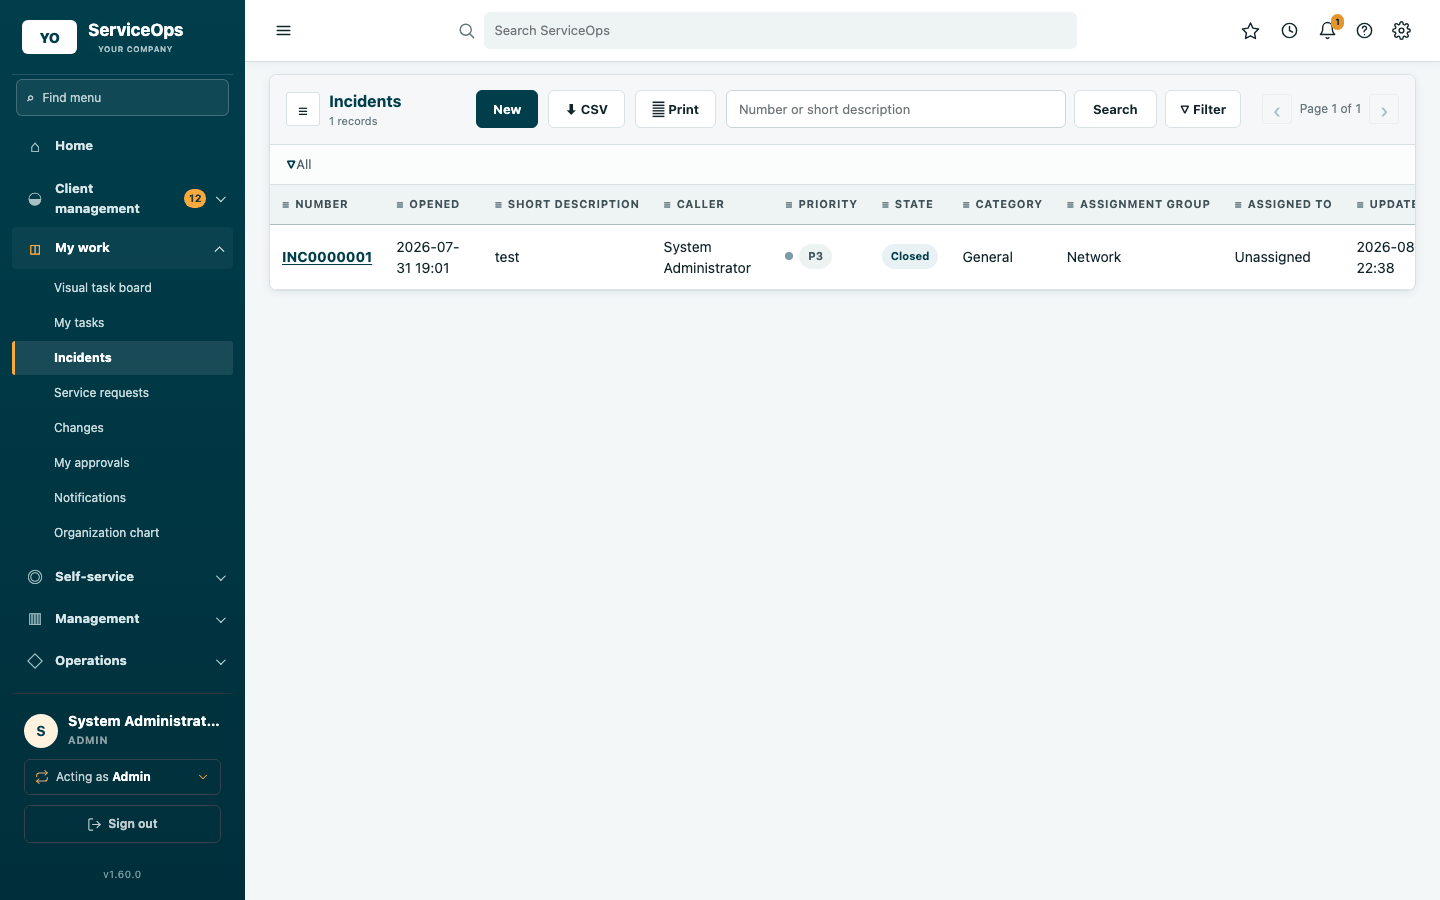
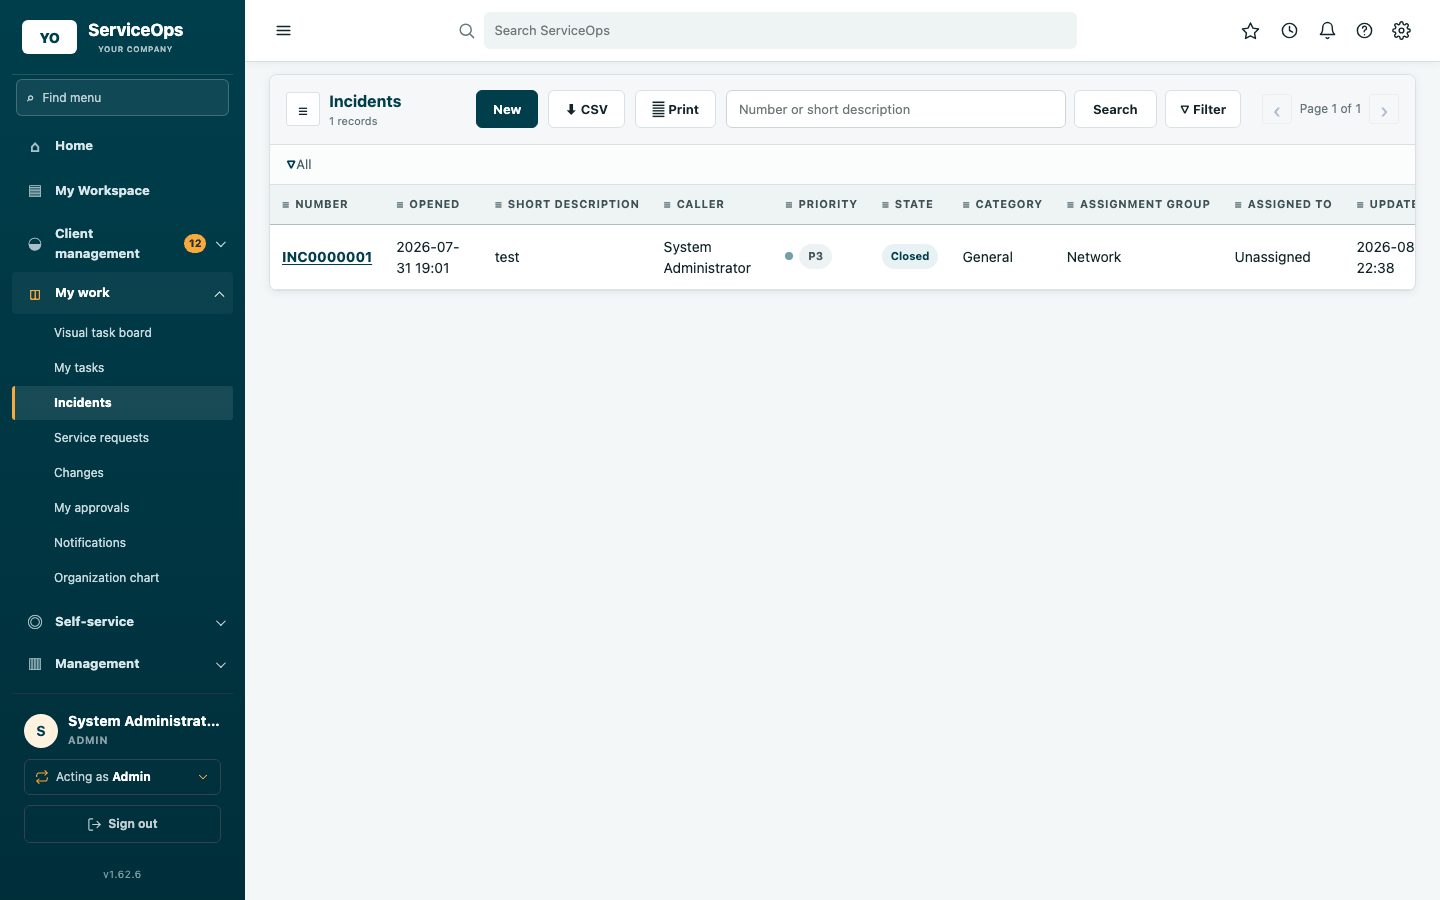
Recapture all screenshots and rebuild the manual against live v1.62.6
User reported the docs were out of sync after the AD/LDAP login fix.
Recaptured all 22 existing reference screenshots against the live
v1.62.6 deployment, and added 4 new ones the capture list was missing
entirely: My Workspace, guided tours admin, data governance admin, and
the client support mailbox admin page -- none of these B-090/B-120/
B-121/B-309 features had ever had a screenshot or a manual section.

Added corresponding OPERATIONS_MANUAL.md sections for all four (My
Workspace after Dashboard; the three admin pages after "Service
delivery and governance"), matching the existing visual-walkthrough
format. Also found and fixed a pre-existing content gap unrelated to
this pass: the "Sign in" section ended mid-sentence with no actual
list of identity methods -- filled it in, including the new UPN/
down-level login form support and live username hint.

Rebuilt docs/ServiceOps_Complete_Platform_Manual.pdf (in the sibling
ServiceOps repo) from the updated source. Refreshed the 4-image
README screenshot subset in ServiceOps/docs/readme/ to match (was
stale from 2026-08-03, predating this session's UI work).

Bumped FEATURE_CATALOG.md/MASTER_REFERENCE.md's baseline version
references from 1.62.5 to 1.62.6. Confirmed zero broken screenshot
references in OPERATIONS_MANUAL.md after the change.

diff --git a/tools/capture_screenshots.py b/tools/capture_screenshots.py
@@ -24,6 +24,7 @@ if not PASSWORD:
 
 PAGES = [
     ("dashboard", "/"),
+    ("my_workspace", "/workspace"),
     ("incidents_list", "/tickets/incident"),
     ("changes_list", "/tickets/change"),
     ("open_work", "/work/open"),
@@ -42,6 +43,9 @@ PAGES = [
     ("users_roles", "/admin/users"),
     ("audit_log", "/admin/audit"),
     ("itil_admin", "/itil/administration"),
+    ("guided_tours_admin", "/admin/guided-tours"),
+    ("data_governance_admin", "/admin/data-governance"),
+    ("client_mailboxes_admin", "/client-management/mailboxes"),
 ]
 
 

diff --git a/docs/OPERATIONS_MANUAL.md b/docs/OPERATIONS_MANUAL.md
@@ -260,6 +260,15 @@ and records ingestion in the append-only audit chain.
 ### Sign in
 
 The sign-in page offers the identity methods enabled by the administrator:
+Keycloak/OIDC (a single **Continue with Keycloak** button), a local
+administrator account, and/or a corporate AD/LDAP directory account — when
+both local and directory sign-in are enabled, a dropdown lets the user pick
+which one they're using. For directory accounts, the username field accepts
+any of the three standard Windows login forms — the bare username
+(`jsmith`), the UPN form (`jsmith@company.com`), or the down-level logon
+form (`CORP\jsmith`) — and shows a small live hint confirming which bare
+account it resolved a domain-qualified entry to before the form is even
+submitted.
 
 ### Workflow state integrity
 
@@ -675,6 +684,19 @@ the last eight records touched anywhere you have visibility into, useful for
 picking back up after a context switch. Administrators can turn any of these
 panels on or off tenant-wide from **Administration home → Platform settings → Workspace defaults**.
 
+### My Workspace
+
+![My Workspace: a per-user, drag-configurable landing page built from a closed catalog of widgets -- ticket stats, my open tickets, recent tickets, SLA-at-risk, approvals awaiting me, favorites, recently viewed, and notifications.](screenshots/my_workspace.png)
+
+**My Workspace** (`/workspace`) is an alternative, personal landing page each
+user can lay out to their own preference, sitting alongside the shared
+Dashboard rather than replacing it. Its widget catalog is closed and
+code-defined — ticket stats, my open tickets, recent tickets, SLA-at-risk,
+approvals awaiting me, favorites, recently viewed, and notifications — not a
+general-purpose page designer; an administrator can disable individual
+widgets tenant-wide from Platform settings, and each user's own layout is
+saved independently of everyone else's.
+
 ### Incidents list
 
 ![The Incidents list workspace: a searchable, filterable, paginated table with Number, Opened, Short description, Caller, Priority, State, Category, Assignment group, Assigned to and Updated columns.](screenshots/incidents_list.png)
@@ -903,6 +925,39 @@ default, what an SLA's target duration and business calendar are, and who
 holds CCB approval authority. Changes made here govern all future tickets and
 requests; they do not retroactively alter SLA targets already attached to an
 in-flight ticket.
+
+### Guided tours administration
+
+![Guided tours administration: a list of admin-authored, versioned tours with ordered steps and role targeting, plus the tour-creation form.](screenshots/guided_tours_admin.png)
+
+Administrators author step-by-step guided tours here (`/admin/guided-tours`)
+— ordered steps, versioning, and role targeting so a tour can be scoped to
+just the roles it's relevant for. End users see active tours play back as a
+lightweight on-page overlay; each user's progress through a tour is recorded
+so it doesn't replay from the start on their next visit.
+
+### Data governance administration
+
+![Data governance administration: retention policies, legal holds, and data classification, plus a queue for reviewing GDPR-style export/erasure requests.](screenshots/data_governance_admin.png)
+
+The data governance page (`/admin/data-governance`) is where retention
+policies and legal holds are defined, and where classification-driven
+GDPR Art. 17/20-style erasure and export requests for client contacts are
+reviewed and actioned. A legal hold on a record blocks its scheduled
+retention-driven deletion regardless of policy, until explicitly lifted.
+
+### Client support mailbox administration
+
+![Client support mailbox administration: a list of configured IMAP/SMTP-polled inboxes with active/inactive toggles, and the mailbox-creation form.](screenshots/client_mailboxes_admin.png)
+
+The Client Management support mailbox page (`/client-management/mailboxes`)
+configures a real IMAP/SMTP inbox that automatically becomes Client tickets:
+inbound mail is polled, threaded onto existing tickets by Message-ID/subject
+token, and creates a new ticket (with contact/organization auto-matching)
+when nothing matches; agent replies go back out through the same mailbox's
+SMTP, correctly threaded. Only basic-auth IMAP/SMTP is supported — providers
+like Gmail/Microsoft 365 that require OAuth or an app password need one
+configured here rather than the account's normal password.
 
 ## 3B. Common task walkthroughs
 

diff --git a/docs/MASTER_REFERENCE.md b/docs/MASTER_REFERENCE.md
@@ -10,7 +10,7 @@
 > **Current feature inventory:**
 > [FEATURE_CATALOG.md](FEATURE_CATALOG.md) is the canonical code-audited
 > catalogue of every implemented ServiceOps capability (baseline being
-> refreshed off ServiceOps 1.62.5 as of this pass; see that file's own
+> refreshed off ServiceOps 1.62.6 as of this pass; see that file's own
 > header for its current audit date). This master reference retains
 > governance, historical audit, architecture, and operating context; use the
 > feature catalogue when determining what the product currently does.

diff --git a/docs/FEATURE_CATALOG.md b/docs/FEATURE_CATALOG.md
@@ -1,7 +1,7 @@
 # ServiceOps complete feature catalogue
 
-**Catalogue baseline:** ServiceOps 1.62.5<br>
-**Last code audit:** 11 August 2026<br>
+**Catalogue baseline:** ServiceOps 1.62.6<br>
+**Last code audit:** 12 August 2026<br>
 **Evidence base:** application routes, models, templates, configuration,
 migrations, tools, deployment manifests, and automated tests in `ServiceOps`.
 <br>Note: this pass targeted the specific gaps identified below (new
